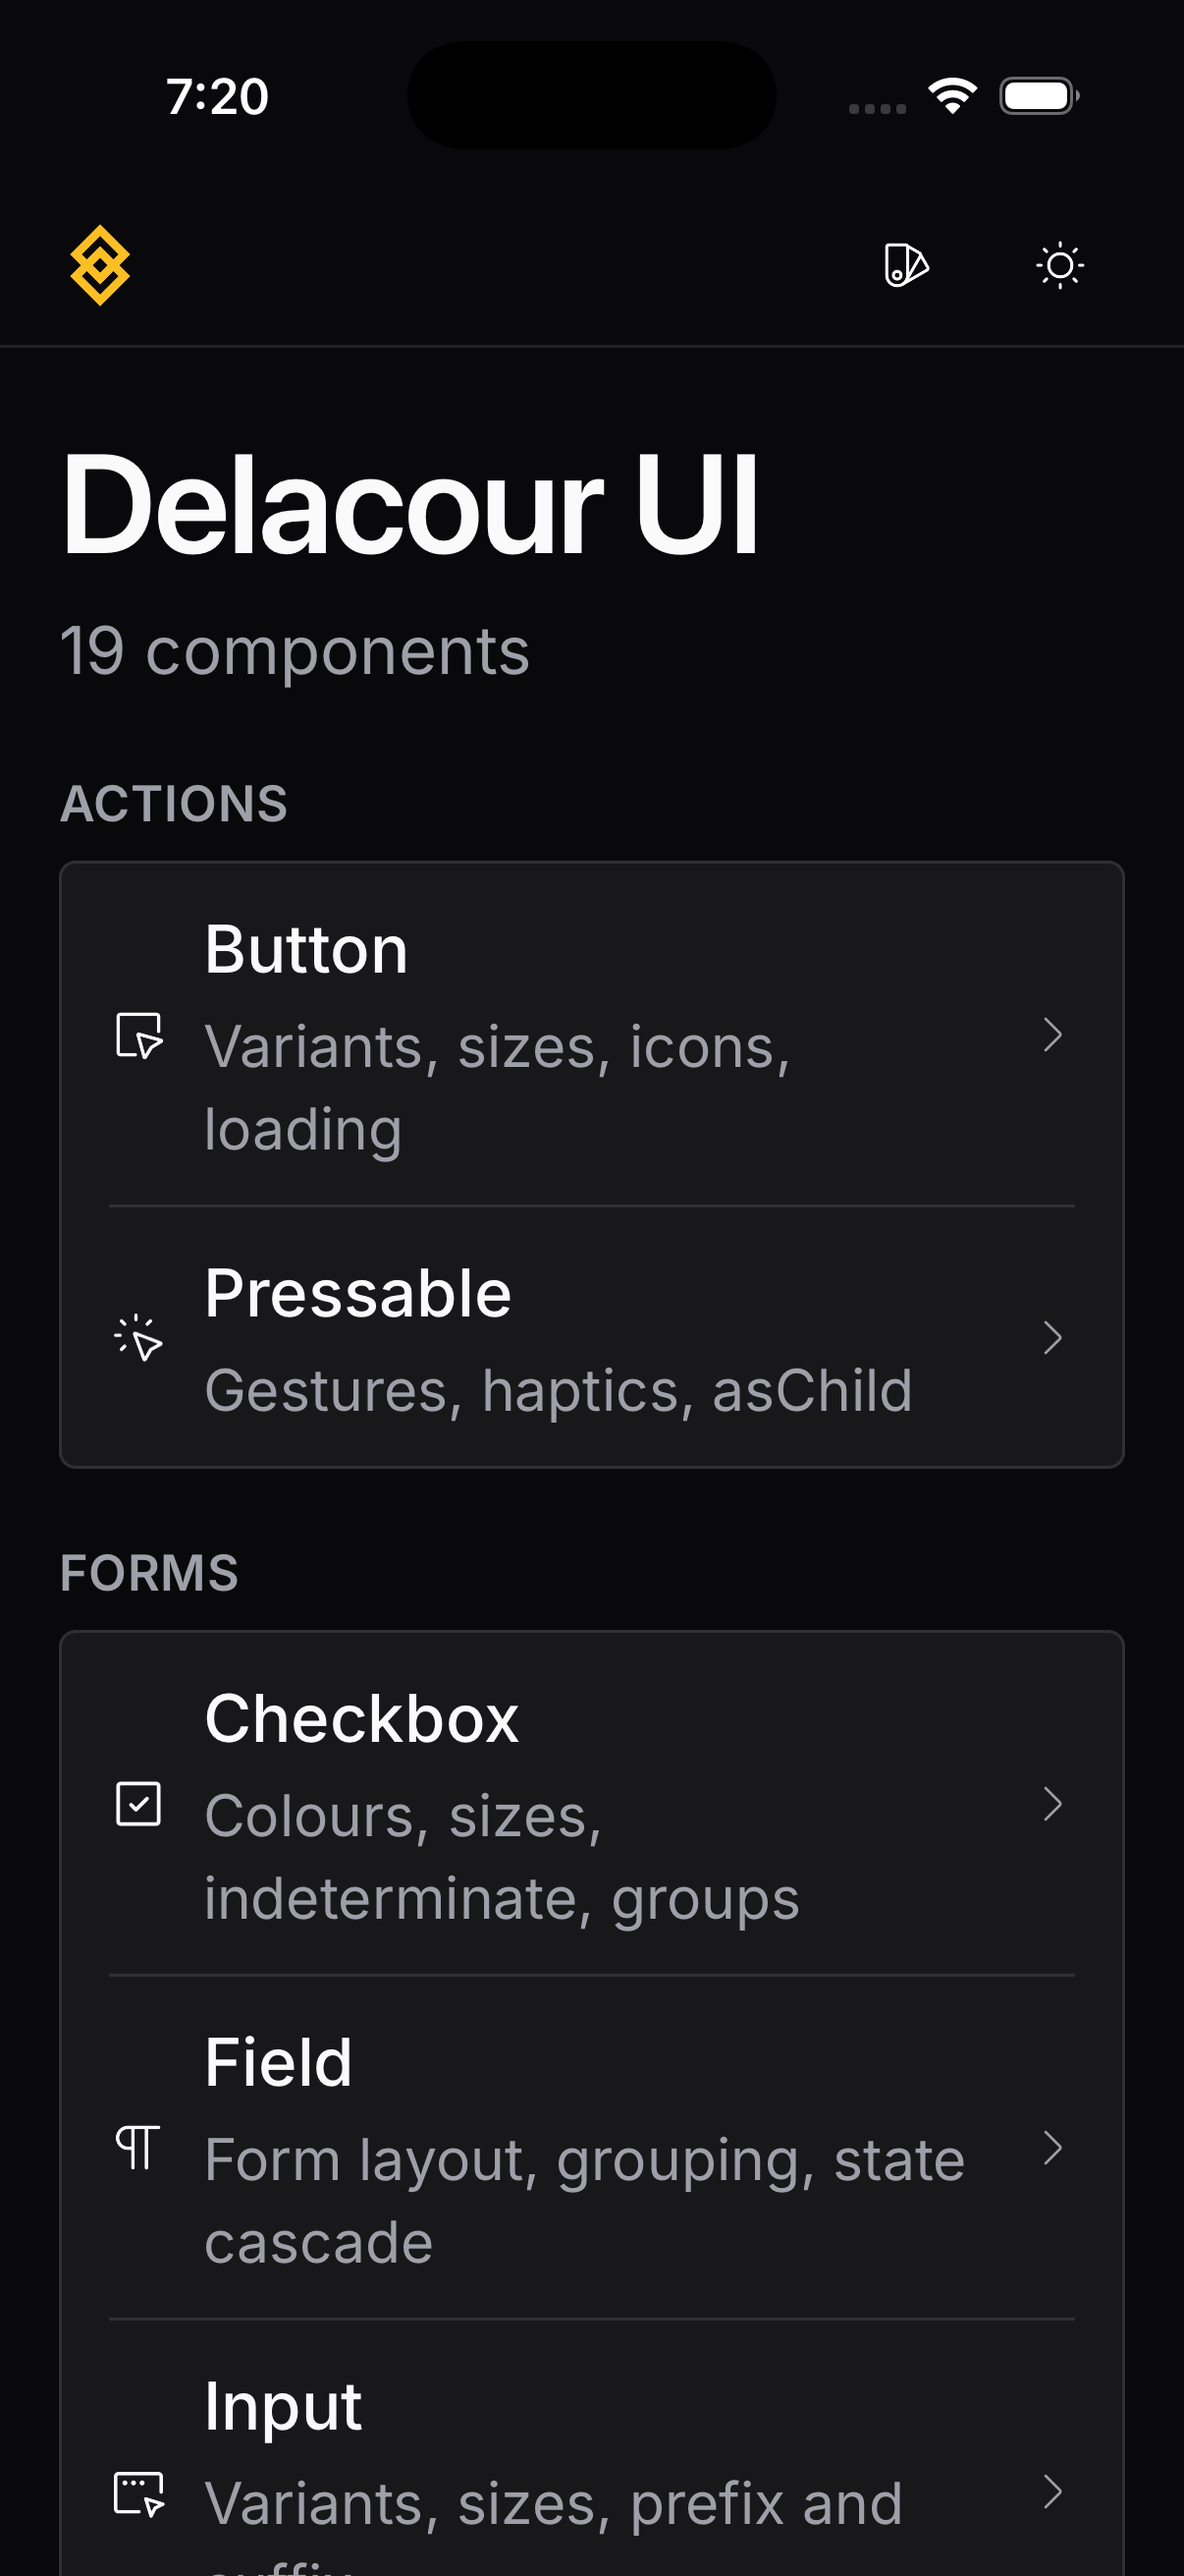
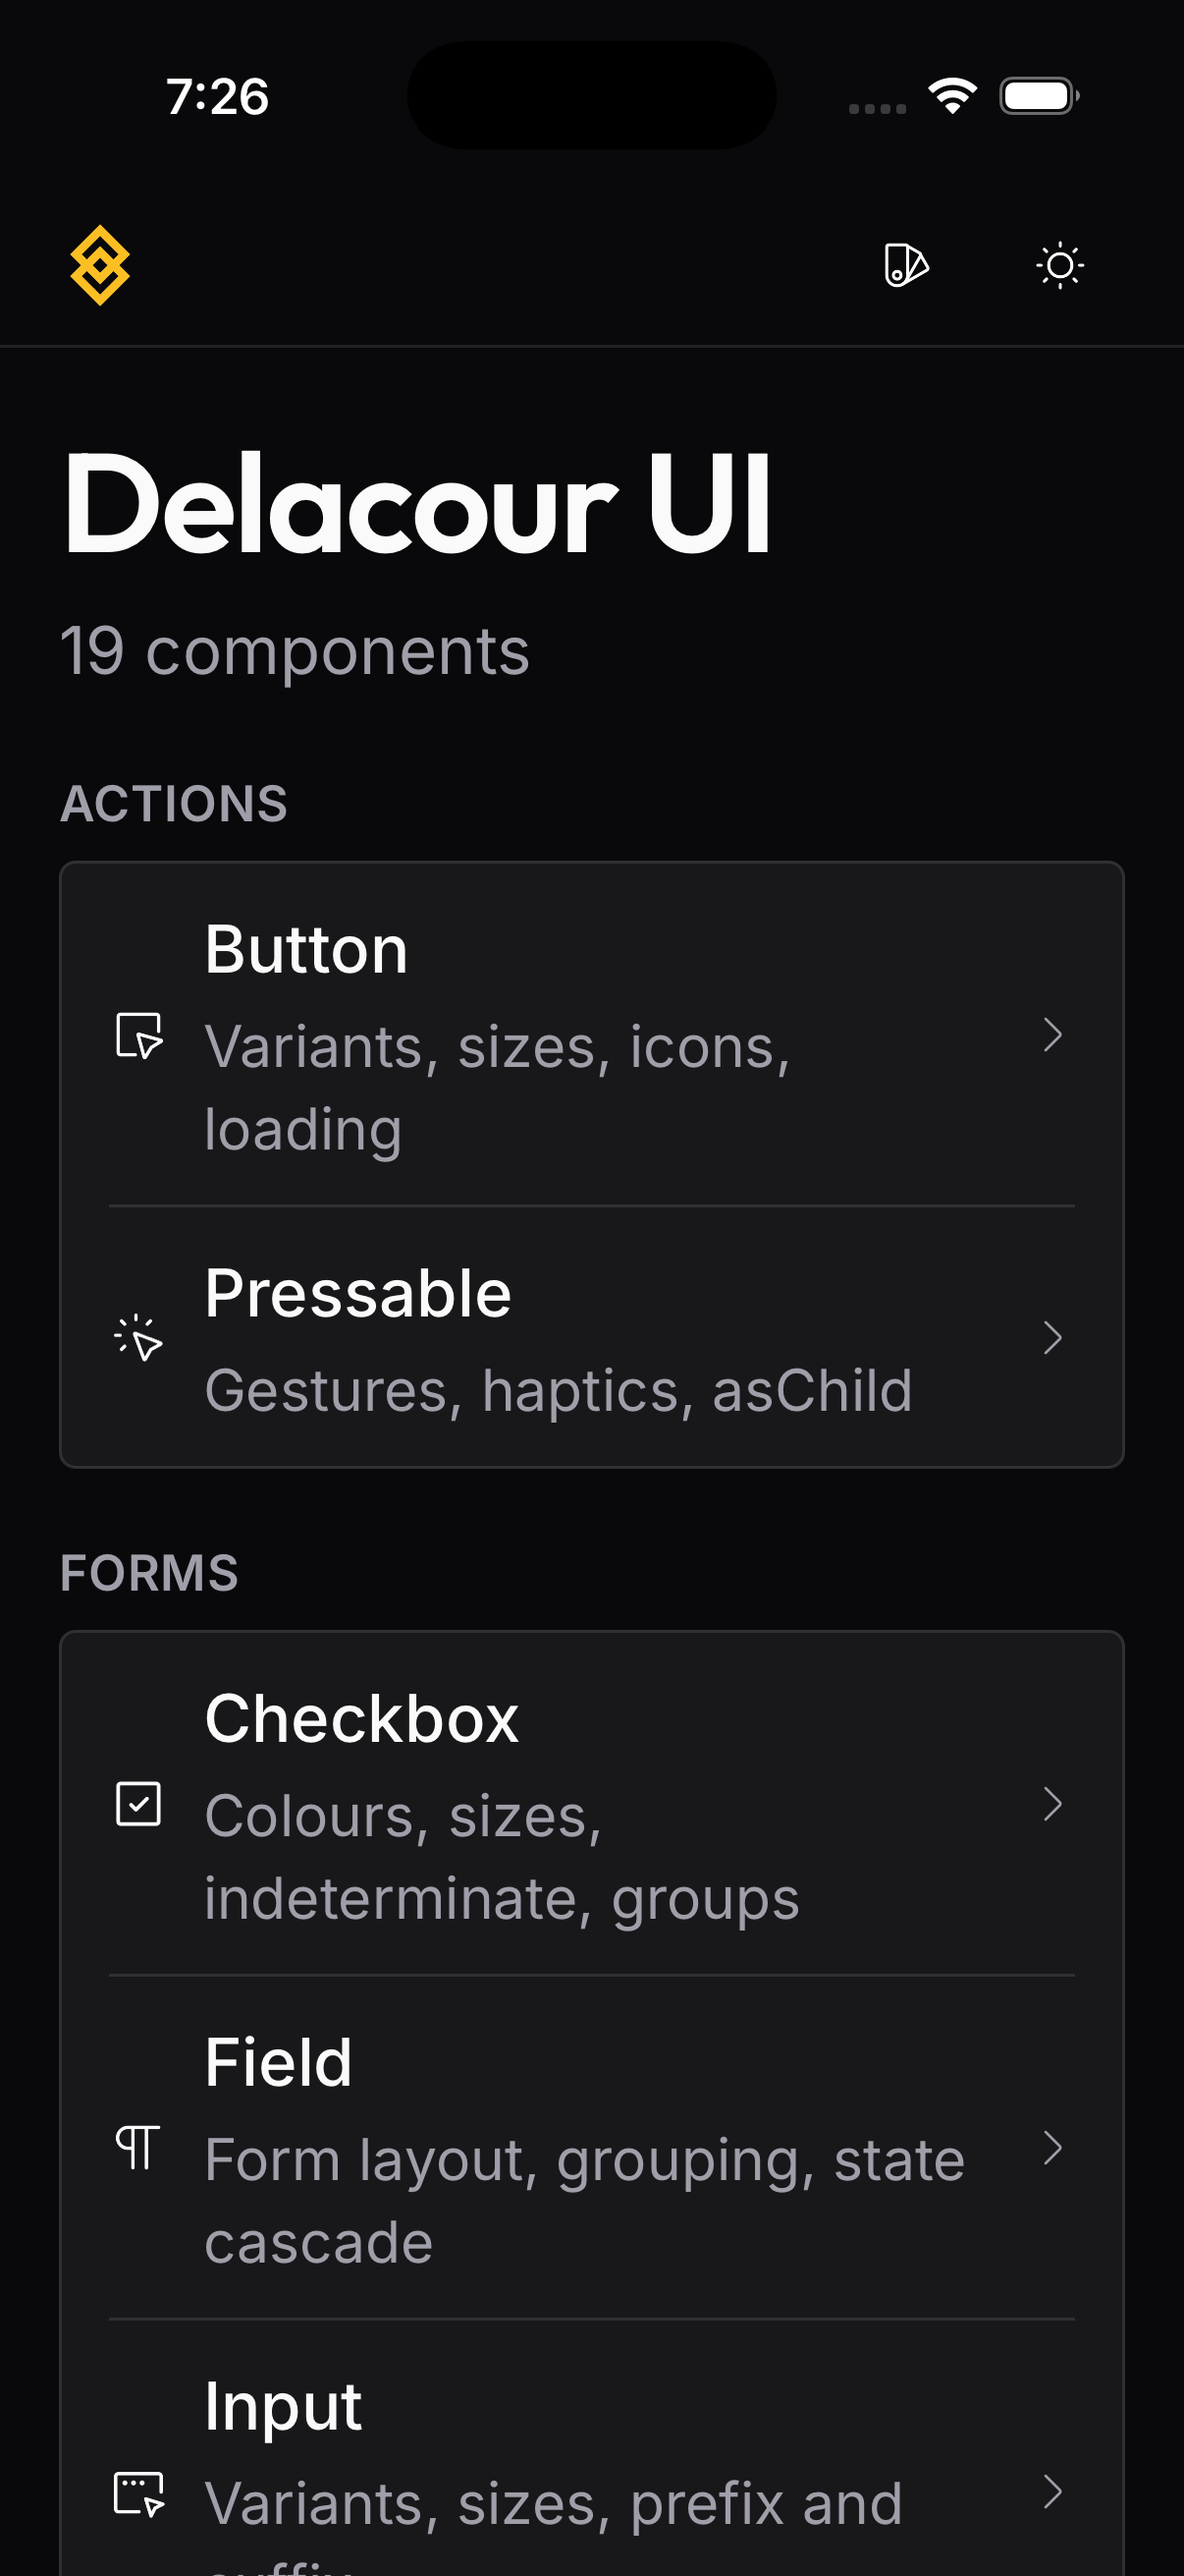
🐛 fix(playground): set the home large title's family inline so Outfit actually renders
- font-heading resolves to nothing: --font-heading lives only in theme.css's platform @variant blocks, so Tailwind mints no utility for it (verified on device, evidence-heading-class-fallback.png)
- the large title reads resolveFonts(config).heading and sets fontFamily inline, the move FontPreview already makes
- home, light and Dynamic Type captures retaken; evidence-heading-outfit.png shows the face

Changed region(s): [[0.0614, 0.1545, 0.675, 0.2162]]

diff --git a/apps/playground/src/app/index.tsx b/apps/playground/src/app/index.tsx
@@ -1,3 +1,4 @@
+import { resolveFonts } from "@delacour/design-system/resolve";
 import { Icon, type IconComponent } from "delacour-react-native-ui/icon";
 import {
 	IconArrowsRepeatCircle,
@@ -31,6 +32,7 @@ import { DelacourMark } from "@/components/delacour-mark";
 import { ThemeTrigger } from "@/components/theme/theme-trigger";
 import { ThemeToggle } from "@/components/theme-toggle";
 import { type ComponentIndexEntry, type ComponentSlug, componentCount, groupedComponents } from "@/components-index";
+import { useDesignSystem } from "@/design-system/store";
 import { LIST_GAP, SECTION_GAP } from "@/tokens";
 
 /**
@@ -85,8 +87,16 @@ const MARK_SIZE = 28;
  * Arbitrary values rather than a scale step because `text-3xl` is 30 and the
  * scale has no 34; the pair is written together so the leading survives the
  * size, the way the library's own presets pair them.
+ *
+ * The family is set inline from the resolved config rather than through
+ * `font-heading`, the same move the customiser's `FontPreview` makes and for
+ * the same reason: `--font-heading` is declared only inside the platform
+ * `@variant` blocks of `theme.css`, so Tailwind mints no `font-heading`
+ * utility from it and the class resolves to nothing — verified on device,
+ * where switching the Heading axis to Raleway moved no title while switching
+ * the body font moved every line. Inline, the family follows the axis.
  */
-const LARGE_TITLE_CLASS = "font-heading font-semibold text-[34px] leading-[41px] tracking-tight";
+const LARGE_TITLE_CLASS = "font-semibold text-[34px] leading-[41px] tracking-tight";
 
 /**
  * The playground index: the library, grouped the way the documentation groups it.
@@ -121,6 +131,7 @@ const LARGE_TITLE_CLASS = "font-heading font-semibold text-[34px] leading-[41px]
 export default function Index(): ReactElement {
 	const router = useRouter();
 	const groups = groupedComponents();
+	const { heading } = resolveFonts(useDesignSystem());
 	const iconFor = (slug: ComponentSlug): IconComponent => ICONS[slug];
 
 	const row = (entry: ComponentIndexEntry, icon: IconComponent) => (
@@ -152,7 +163,11 @@ export default function Index(): ReactElement {
 
 			<Screen.ScrollArea contentContainerClassName={LIST_GAP}>
 				<View className="gap-1">
-					<Text.Display accessibilityRole="header" className={LARGE_TITLE_CLASS}>
+					<Text.Display
+						accessibilityRole="header"
+						className={LARGE_TITLE_CLASS}
+						style={heading ? { fontFamily: heading } : undefined}
+					>
 						Delacour UI
 					</Text.Display>
 					<Text.Paragraph color="muted">{`${componentCount()} components`}</Text.Paragraph>

diff --git a/apps/playground/AGENTS.md b/apps/playground/AGENTS.md
@@ -218,7 +218,19 @@ and `ThemeToggle`, and the content opens with "Delacour UI" as a large title —
 34 over 41, semibold, in the heading face — with the row count under it. The
 large title is where Outfit is actually legible as Outfit; at navbar size it is
 indistinguishable from the body face, which is how the finish review found the
-house's heading face nowhere on the phone. It is the one typeset lockup the
+house's heading face nowhere on the phone.
+
+**Its family is set inline from `resolveFonts(config).heading`, not through
+`font-heading`.** `--font-heading` is declared only inside the platform
+`@variant` blocks of the library's `theme.css`, so Tailwind mints no
+`font-heading` utility from it and the class resolves to nothing — verified on
+device: switching the Heading axis to Raleway moved no title on any screen while
+switching the body font moved every line. The library's own `Text.Display`,
+`Title` and `Header` presets carry that class and so render in the body face
+today; that is a library gap, recorded in `DESIGN.md`, and the reason the
+customiser's `FontPreview` and the preset tiles were already setting `fontFamily`
+inline. `.impeccable/review/evidence-heading-class-fallback.png` is the capture
+that proved it. It is the one typeset lockup the
 brand has, since the mark's geometry is binding and there is no wordmark; every
 other title stays inline, in the body face a navigation bar expects. The rows
 are grouped under the documentation site's eight group names, in its order, so
